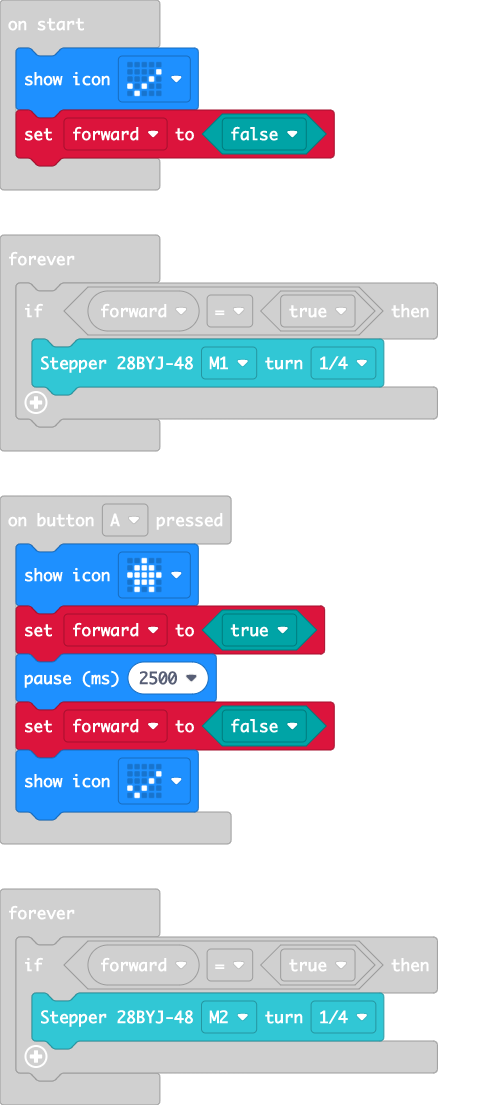
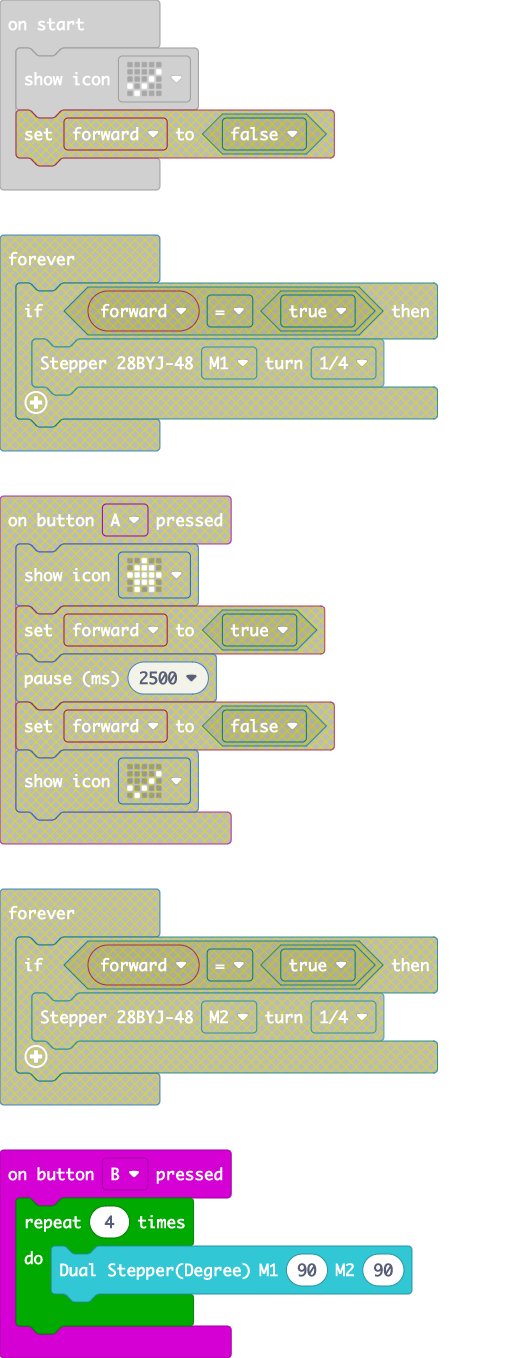
Update main.blocks, main.ts

diff --git a/main.ts b/main.ts
@@ -1,20 +1,6 @@
-input.onButtonPressed(Button.A, function () {
-    basic.showIcon(IconNames.House)
-    forward = true
-    basic.pause(2500)
-    forward = false
-    basic.showIcon(IconNames.Yes)
+input.onButtonPressed(Button.B, function () {
+    for (let index = 0; index < 4; index++) {
+        robotbit.StepperDual(90, 90)
+    }
 })
-let forward = false
 basic.showIcon(IconNames.Yes)
-forward = false
-basic.forever(function () {
-    if (forward == true) {
-        robotbit.StepperTurn(robotbit.Steppers.M1, robotbit.Turns.T1B4)
-    }
-})
-basic.forever(function () {
-    if (forward == true) {
-        robotbit.StepperTurn(robotbit.Steppers.M2, robotbit.Turns.T1B4)
-    }
-})
